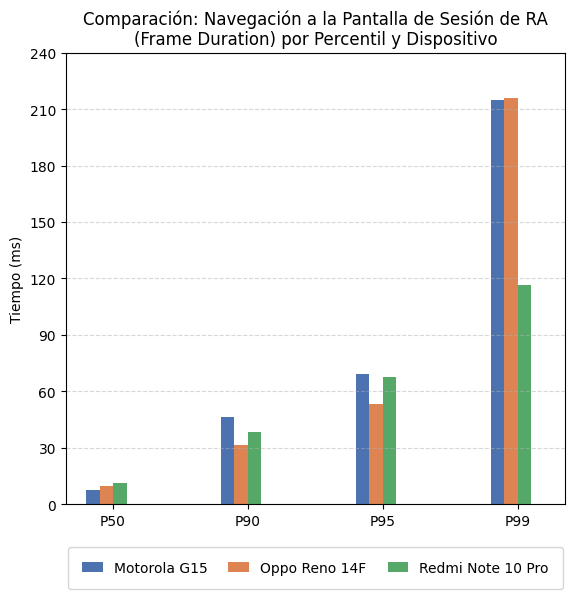
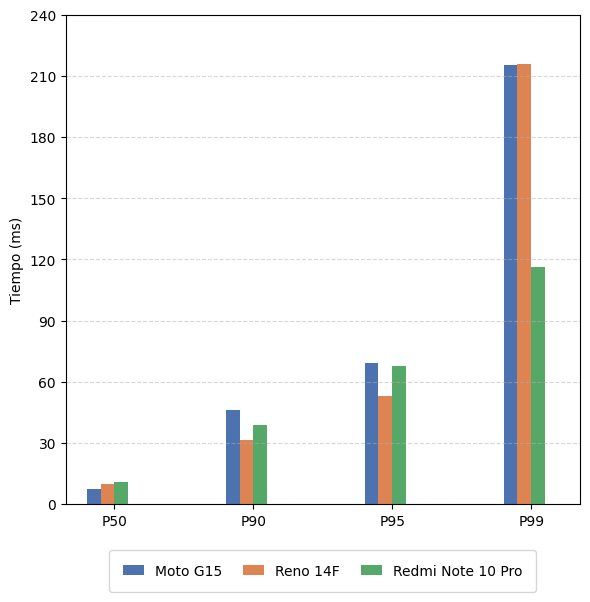
refactor: fixes in captions, titles and sizes. Replacements of some figures

diff --git a/assets/figures/third_phase/fig_markers_decomposition.tex b/assets/figures/third_phase/fig_markers_decomposition.tex
@@ -1,0 +1,28 @@
+\begin{figure}[H]
+    \caption{Descomposición de los marcadores}
+    \centering
+    \setlength{\tabcolsep}{0pt}
+    \renewcommand{\arraystretch}{1.2}
+    \begin{tabular}{
+        |>{\centering\arraybackslash}m{(\textwidth - 4\arrayrulewidth) / 3}
+        |>{\centering\arraybackslash}m{(\textwidth - 4\arrayrulewidth) / 3}
+        |>{\centering\arraybackslash}m{(\textwidth - 4\arrayrulewidth) / 3}|
+    }
+        \hline
+
+        \includegraphics[width=(\textwidth - 4\arrayrulewidth) / 3]
+        {assets/figures/third_phase/M1P1.png} &
+            \includegraphics[width=(\textwidth - 4\arrayrulewidth) / 3]
+        {assets/figures/third_phase/M1P2.png} &
+                \includegraphics[width=(\textwidth - 4\arrayrulewidth) / 3]
+        {assets/figures/third_phase/M1P3.png} \\
+
+        \rule{0pt}{0.8cm}\small Marcador con indice de posición 1 &
+            \rule{0pt}{0.8cm}\small Marcador con indice de posición 2 &
+                \rule{0pt}{0.8cm}\small Marcador con indice de posición 3 \\
+
+        \hline
+    \end{tabular}
+    \label{fig:markers_decomposition}
+\end{figure}
+\fixvspace{0}

diff --git a/assets/figures/theoretical_framework/fig_maintenance_categories.tex b/assets/figures/theoretical_framework/fig_maintenance_categories.tex
@@ -3,6 +3,6 @@
     \centering
     \includegraphics[width=0.8\textwidth]{assets/figures/theoretical_framework/img_maintenance_categories.png}
     \label{fig:maintenance_categories}
-    \caption*{\textit{Nota}. \textnormal{Figura extraída de \textcite[p. 28]{ISO:2006}}}
+    \caption*{\textit{Nota.} Adaptado de \textit{Petroleum, petrochemical and natural gas industries - Collection and exchange of reliability and maintenance data for equipment} (p. 28), por ISO, 2006, ISO. Traducción de los autores.}
 \end{figure}
 \fixvspace{0.5}

diff --git a/assets/figures/second_phase/coordinate_system/fig_coordinate_system_devices.tex b/assets/figures/second_phase/coordinate_system/fig_coordinate_system_devices.tex
@@ -19,7 +19,7 @@
         
         \hline
     \end{tabular}
-    \caption*{\textit{Nota}. \textnormal{Imagen de modo retrato extraída de: \url{https://developer.android.com/develop/sensors-and-location/sensors/sensors_overview\#sensors-coords}}}
+\caption*{\textit{Nota.} Extraído de \textit{Información general de sensores}, por Google, 2026, Android Developers. \url{https://developer.android.com/develop/sensors-and-location/sensors/sensors_overview?hl=es}}
     \label{fig:coordinate_system_devices}
 \end{figure}
 \fixvspace{0.5}

diff --git a/assets/graphics/second_phase/entity/grp_entity_motor_and_specs.tex b/assets/graphics/second_phase/entity/grp_entity_motor_and_specs.tex
@@ -1,5 +1,5 @@
 \centering
-\includegraphics[align=t,width=0.4\textwidth]{assets/graphics/second_phase/entity/img_entity_motor_indentity.png}
-\includegraphics[align=t,width=0.4\textwidth]{assets/graphics/second_phase/entity/img_entity_motor_specs.png}
+\includegraphics[align=t,width=0.3\textwidth]{assets/graphics/second_phase/entity/img_entity_motor_indentity.png}
+\includegraphics[align=t,width=0.3\textwidth]{assets/graphics/second_phase/entity/img_entity_motor_specs.png}
 \label{grp:entity_motor_and_specs}
 \fixvspace{1}

diff --git a/assets/figures/third_phase/benchmark/fig_benchmark_navigation_to_calibration.tex b/assets/figures/third_phase/benchmark/fig_benchmark_navigation_to_calibration.tex
@@ -1,5 +1,5 @@
 \begin{figure}[H]
-    \caption{Comparación de navegación a la pantalla de calibración}
+    \caption{Duración del fotograma en la transición y apertura de la calibración de RA por percentil y dispositivo}
     \centering
     \includegraphics[width=0.6\textwidth]{assets/figures/third_phase/benchmark/img_benchmark_navigation_to_calibration.png}
     \label{fig:benchmark_nav_to_calibration}

diff --git a/assets/figures/third_phase/benchmark/fig_benchmark_navigation_to_editor.tex b/assets/figures/third_phase/benchmark/fig_benchmark_navigation_to_editor.tex
@@ -1,5 +1,5 @@
 \begin{figure}[H]
-    \caption{Comparación de navegación a la pantalla de editor de actividades}
+    \caption{Duración del fotograma en la transición y apertura del editor de actividades por percentil y dispositivo}
     \centering
     \includegraphics[width=0.6\textwidth]{assets/figures/third_phase/benchmark/img_benchmark_navigation_to_editor.png}
     \label{fig:benchmark_nav_to_editor}

diff --git a/assets/figures/third_phase/functionalities/fig_func_arsession.tex b/assets/figures/third_phase/functionalities/fig_func_arsession.tex
@@ -1,7 +1,7 @@
 \begin{figure}[H]
     \caption{Funcionamiento de la pantalla de sesión de realidad aumentada}
     \centering
-    \includegraphics[width=0.8\textwidth]{assets/figures/third_phase/functionalities/img_func_arsession.png}
+    \includegraphics[width=0.5\textwidth]{assets/figures/third_phase/functionalities/img_func_arsession.png}
     \label{fig:func_arsession}
 \end{figure}
 \fixvspace{0}

diff --git a/assets/figures/third_phase/benchmark/fig_benchmark_navigation_to_arsession.tex b/assets/figures/third_phase/benchmark/fig_benchmark_navigation_to_arsession.tex
@@ -1,5 +1,5 @@
 \begin{figure}[H]
-    \caption{Comparación de navegación a la pantalla de sesión de RA}
+    \caption{Duración del fotograma en la transición y apertura de la sesión de RA por percentil y dispositivo}
     \centering
     \includegraphics[width=0.6\textwidth]{assets/figures/third_phase/benchmark/img_benchmark_navigation_to_arsession.png}
     \label{fig:benchmark_nav_to_arsession}

diff --git a/assets/figures/third_phase/benchmark/fig_benchmark_startup_warm.tex b/assets/figures/third_phase/benchmark/fig_benchmark_startup_warm.tex
@@ -1,5 +1,5 @@
 \begin{figure}[H]
-    \caption{Comparación de tiempos de inicio en cálido}
+    \caption{Comparación de tiempo de inicio en templado (Warm Startup) por dispositivo}
     \centering
     \includegraphics[width=0.6\textwidth]{assets/figures/third_phase/benchmark/img_benchmark_startup_warm.png}
     \label{fig:benchmark_startup_warm}

diff --git a/assets/figures/third_phase/benchmark/fig_benchmark_startup_hot.tex b/assets/figures/third_phase/benchmark/fig_benchmark_startup_hot.tex
@@ -1,5 +1,5 @@
 \begin{figure}[H]
-    \caption{Comparación de tiempos de inicio en caliente}
+    \caption{Comparación de tiempo de inicio en caliente (Hot Startup) por dispositivo}
     \centering
     \includegraphics[width=0.6\textwidth]{assets/figures/third_phase/benchmark/img_benchmark_startup_hot.png}
     \label{fig:benchmark_startup_hot}

diff --git a/assets/figures/third_phase/benchmark/fig_benchmark_startup_cold.tex b/assets/figures/third_phase/benchmark/fig_benchmark_startup_cold.tex
@@ -1,5 +1,5 @@
 \begin{figure}[H]
-    \caption{Comparación de tiempos de inicio en frío}
+    \caption{Comparación de tiempo de inicio en frío (Cold Startup) por dispositivo}
     \centering
     \includegraphics[width=0.6\textwidth]{assets/figures/third_phase/benchmark/img_benchmark_startup_cold.png}
     \label{fig:benchmark_startup_cold}

diff --git a/assets/figures/second_phase/controls/fig_operation_controls.tex b/assets/figures/second_phase/controls/fig_operation_controls.tex
@@ -1,5 +1,5 @@
 \begin{figure}[H]
-    \caption{Controles para calibración de modelos 3D}
+    \caption{Controles para la configuración de animaciones en una operación}
     \centering
     \includegraphics[width=0.4\textwidth]{assets/figures/second_phase/controls/img_operation_controls.png}
     \label{fig:operation_controls}
